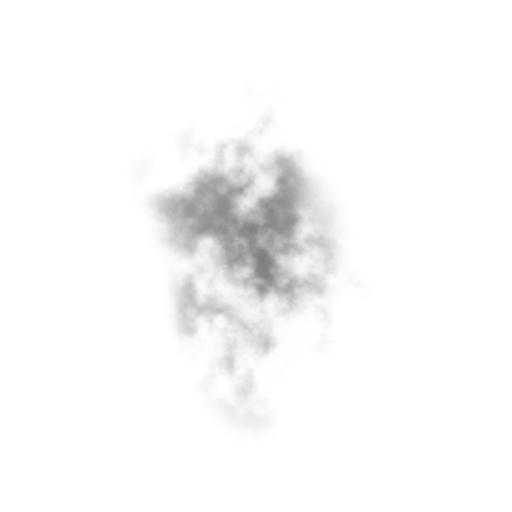
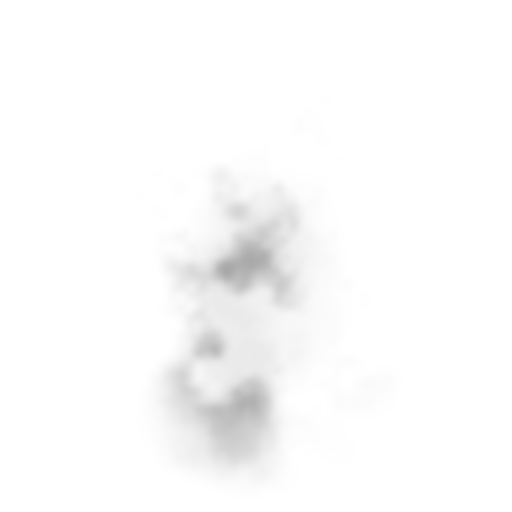
Softer, more natural bruise pictures
- new generator (tools/bruises): overlapping soft cores, warped outline,
  long fade into the skin, larger gentle mottling, clustered pinpoint specks
- pictures hidden with your own limb in first person
- no double lift over the swelling

Claude-Session: https://claude.ai/code/session_01J7AngvhGU1NARLygXpdcY3

Changed region(s): [[0.2812, 0.2812, 0.6562, 0.9062], [0.5, 0.6562, 0.5312, 0.6875]]

diff --git a/tools/bruises/make_bruise_textures.py b/tools/bruises/make_bruise_textures.py
@@ -1,0 +1,102 @@
+# Bruise pictures for Config.Injuries.BRUISE_IMAGES (grey, tinted in game).
+# Run from the repo root: python3 tools/bruises/make_bruise_textures.py
+import sys
+import numpy as np
+from PIL import Image, ImageFilter
+N = 512
+def value_noise(shape, scale, rng):
+    gy, gx = int(shape[0] / scale) + 3, int(shape[1] / scale) + 3
+    grid = rng.random((gy, gx))
+    y = np.linspace(0, gy - 3, shape[0]); x = np.linspace(0, gx - 3, shape[1])
+    yi, xi = np.floor(y).astype(int), np.floor(x).astype(int)
+    yf, xf = y - yi, x - xi
+    yf = yf * yf * (3 - 2 * yf); xf = xf * xf * (3 - 2 * xf)
+    a = grid[yi][:, xi]; b = grid[yi][:, xi + 1]; c = grid[yi + 1][:, xi]; d = grid[yi + 1][:, xi + 1]
+    top = a + (b - a) * xf[None, :]; bot = c + (d - c) * xf[None, :]
+    return top + (bot - top) * yf[:, None]
+def fbm(rng, octaves=5, base=96, gain=0.5):
+    out = np.zeros((N, N)); amp = 1; total = 0
+    for o in range(octaves):
+        out += value_noise((N, N), base / 2 ** o, rng) * amp; total += amp; amp *= gain
+    return out / total
+def warp(field, dx, dy):
+    # sample field at (x+dx, y+dy) pixels, bilinear
+    yy, xx = np.mgrid[0:N, 0:N].astype(float)
+    x = np.clip(xx + dx, 0, N - 1.001); y = np.clip(yy + dy, 0, N - 1.001)
+    x0, y0 = x.astype(int), y.astype(int); fx, fy = x - x0, y - y0
+    a = field[y0, x0]; b = field[y0, x0 + 1]; c = field[y0 + 1, x0]; d = field[y0 + 1, x0 + 1]
+    return (a * (1 - fx) + b * fx) * (1 - fy) + (c * (1 - fx) + d * fx) * fy
+def smooth(e0, e1, x):
+    t = np.clip((x - e0) / (e1 - e0), 0, 1); return t * t * (3 - 2 * t)
+yy, xx = np.mgrid[0:N, 0:N] / (N - 1) * 2 - 1
+
+def blob(seed, stretch=1.0, lobes=2):
+    """A bruise: blood spread under the skin. Densest in one or two soft
+    cores, fading over a long way into the skin, broken up by organic,
+    domain-warped mottling; no hard outline."""
+    rng = np.random.default_rng(seed)
+    X, Y = xx * stretch, yy / stretch
+    # a few overlapping soft cores (blood pools unevenly)
+    dens = np.zeros((N, N))
+    for k in range(lobes + 1):
+        cx, cy = rng.normal(0, 0.16, 2)
+        rx, ry = rng.uniform(0.42, 0.58), rng.uniform(0.36, 0.5)
+        th = rng.uniform(0, np.pi)
+        u = (X - cx) * np.cos(th) + (Y - cy) * np.sin(th)
+        v = -(X - cx) * np.sin(th) + (Y - cy) * np.cos(th)
+        d2 = (u / rx) ** 2 + (v / ry) ** 2
+        dens = np.maximum(dens, np.exp(-(d2 ** 1.15) * 0.75) * rng.uniform(0.85, 1.0))
+    # warp the whole thing so the outline is ragged and organic
+    wx = (fbm(rng, 5, 160) - 0.5) * 70; wy = (fbm(rng, 5, 160) - 0.5) * 70
+    dens = warp(dens, wx, wy)
+    # finer warp + breakup toward the edge
+    edgeNoise = fbm(rng, 6, 70, 0.55)
+    dens = dens * (0.8 + 0.45 * edgeNoise)
+    dens = np.clip(dens, 0, 1.2)
+    # long, soft falloff to zero at the image border
+    border = 1 - smooth(0.8, 0.98, np.hypot(xx, yy))
+    alpha = np.clip(dens / 0.9, 0, 1) ** 1.5 * border
+    # mottling inside: darker clots and lighter gaps (veiny, warped)
+    m = fbm(rng, 4, 80, 0.5)
+    m = warp(m, wx * 0.5, wy * 0.5)
+    clots = smooth(0.45, 0.72, m)
+    alpha = np.clip(alpha * (0.82 + 0.3 * clots), 0, 1)
+    shade = 1 - 0.32 * clots * smooth(0.15, 0.7, dens)   # darker where clotted
+    shade = shade - 0.12 * smooth(0.6, 1.1, dens)        # deeper in the core
+    shade = np.clip(shade, 0.35, 1)
+    rgb = np.stack([shade] * 3, -1)
+    img = np.concatenate([rgb, alpha[..., None] * 0.9], -1)
+    im = Image.fromarray((np.clip(img, 0, 1) * 255).astype(np.uint8), "RGBA")
+    return im.filter(ImageFilter.GaussianBlur(2.5))
+
+def rim(seed):
+    """The faint wide halo (the edge where the blood is spreading / healing)."""
+    rng = np.random.default_rng(seed)
+    wx = (fbm(rng, 4, 150) - 0.5) * 120; wy = (fbm(rng, 4, 150) - 0.5) * 120
+    r = warp(np.hypot(xx, yy), wx, wy)
+    ring = np.exp(-(r / 0.55) ** 2.2)
+    alpha = np.clip(ring * (0.55 + 0.6 * fbm(rng, 4, 90)), 0, 1)
+    alpha *= 1 - smooth(0.82, 0.98, np.hypot(xx, yy))
+    rgb = np.ones((N, N, 3))
+    return Image.fromarray((np.concatenate([rgb, alpha[..., None]], -1) * 255).astype(np.uint8), "RGBA").filter(ImageFilter.GaussianBlur(3))
+
+def petechiae(seed):
+    """Pinpoint bleeding: tiny soft specks, clustered in a few patches."""
+    rng = np.random.default_rng(seed)
+    a = np.zeros((N, N))
+    clusters = [(rng.uniform(0, 6.28), rng.uniform(0.25, 0.55)) for _ in range(3)]
+    for ang, rad in clusters:
+        ccx, ccy = rad * np.cos(ang), rad * np.sin(ang)
+        for _ in range(int(rng.integers(10, 18))):
+            cx, cy = ccx + rng.normal(0, 0.09), ccy + rng.normal(0, 0.09)
+            s = rng.uniform(0.004, 0.011)
+            d = np.hypot(xx - cx, yy - cy) / s
+            a = np.maximum(a, np.exp(-d * d) * rng.uniform(0.35, 0.8))
+    rgb = np.ones((N, N, 3))
+    return Image.fromarray((np.concatenate([rgb, a[..., None]], -1) * 255).astype(np.uint8), "RGBA").filter(ImageFilter.GaussianBlur(0.8))
+
+out = sys.argv[1] if len(sys.argv) > 1 else "assets/bruises/"
+for i, (seed, st, lobes) in enumerate([(11, 1.0, 2), (23, 1.2, 3), (37, 0.85, 1), (51, 1.05, 2)]):
+    blob(seed, st, lobes).save(out + f"bruise_{i + 1}.png")
+rim(71).save(out + "bruise_rim.png")
+petechiae(83).save(out + "bruise_petechiae.png")
